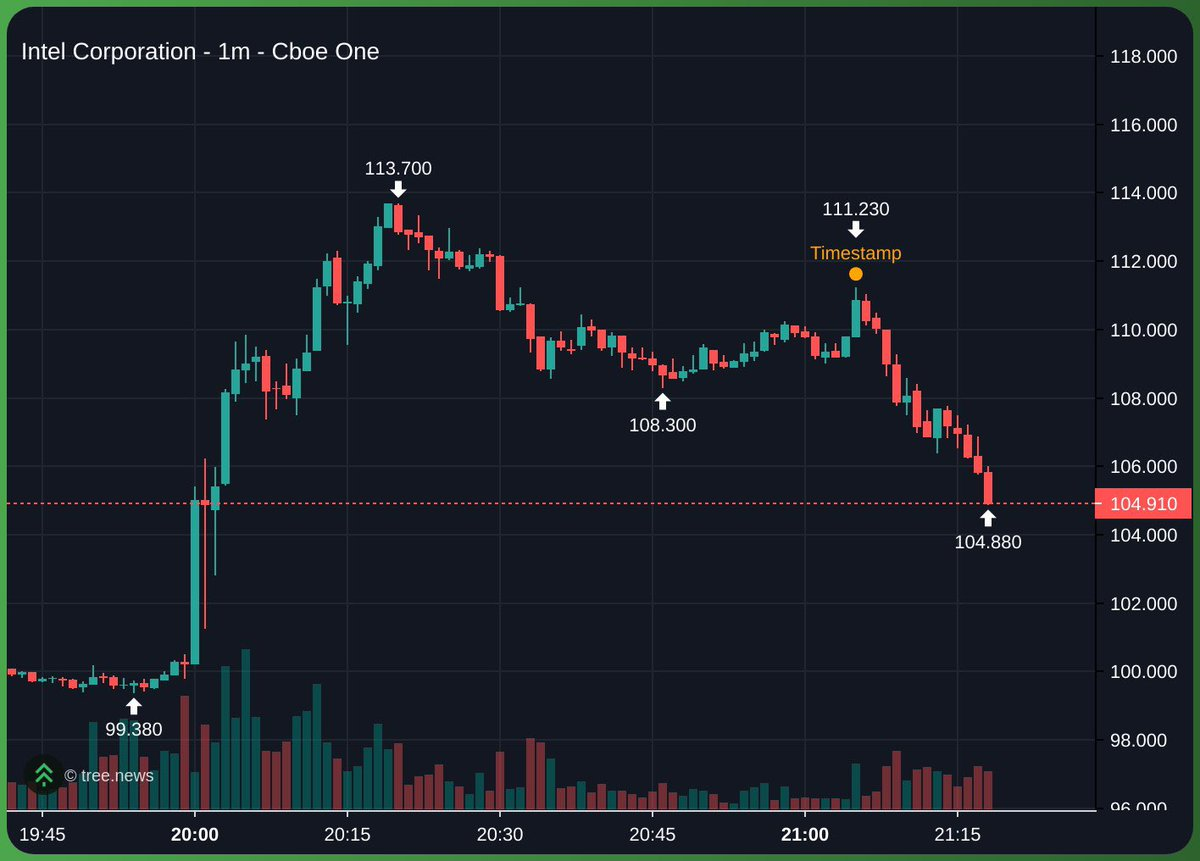
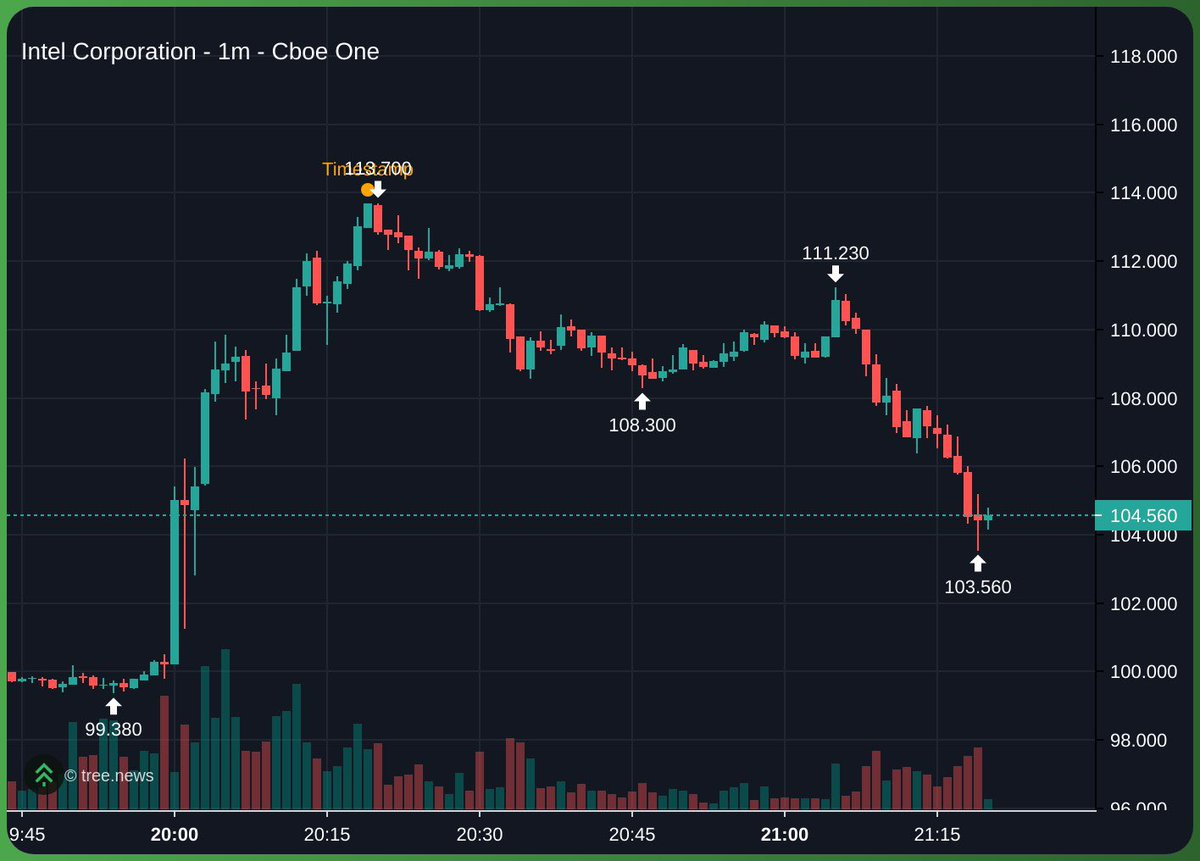
chore(x-trader-monitor): auto-commit 2026-07-23

Changed region(s): [[0.0, 0.1812, 1.0, 0.9965]]

diff --git a/memory/logs/2026-07-23.md b/memory/logs/2026-07-23.md
@@ -209,3 +209,11 @@
 - ticker(s): [INTC]
 - alerted: yes (informational alert sent)
 - notes: **INFORMATIONAL ALERT — INTC Technical Observation / Intraday Fade**. Tweet text: "Faded? https://t.co/4wuhzAOxs0" + 1 media attachment (INTC 1m chart). Step 4B classification (cryptic post with media) → Step 7 (image analysis required). Media analysis: INTC 1-minute chart on Cboe One (2026-07-23 19:45–21:15 UTC window). Chart shows: (1) Intraday pump from ~99 to high of 113.7 (marked at top), (2) Pullback to 111.23 (labeled "Timestamp"), (3) Further decline through 108.3 → 104.88 → current close 104.91 (shown in red box at bottom right). Volume bars at bottom show elevated activity during pump, declining during sell-off. Interpretation: Trader is asking "Faded?" — observing that INTC's intraday rally from ~99 to 113.7 has lost momentum and reversed sharply downward. Chart shows classic intraday pump-and-dump pattern with current price (104.91) significantly below both the pump high (113.7) and the pullback level (111.23). Execution language: ABSENT — post is a QUESTION ("Faded?"), not a statement of personal action ("I just shorted", "I closed", "I entered"). Step 4C check: NOT a personal trade action — trader is observing/questioning market price action, not describing own execution. Classification: Step 6 (Informational — technical observation/market analysis, no action required). Sentiment: NEUTRAL-TO-BEARISH (questioning whether rally momentum is gone, implying skepticism on upside durability). Context: Wild_Randomness documented profile (traders.md): multi-timeframe technical trader, posts cryptic chart-and-one-liner style, ~15+ ambiguous posts requiring calibration (high noise-to-signal). Current post: fits established pattern (technical question + image, no explicit personal action). Ticker context: INTC not on Kyle's explicit watch list but tracked by Wild_Randomness and Crypto_Chase (documented ticker-focus.md); near-term bearish conviction higher than long thesis per supporting-channel context (Crypto_Chase "lowest confidence out of MU/SNDK/INTC" Jul 17 14:06Z). Alert decision: Sends as Step 6 format (informational alert, no action required). Rationale: Technical observation on INTC intraday structure provides market context for Kyle's broader equities/tech watchlist (given recent semis weakness alerts: MU/SNDK/Memory ETF); chart pattern (classic intraday fade) confirms bearish intraday structure for the name. Cross-platform dedup: Wild_Randomness X-only (no Discord). No concurrent posts from other dual-platform traders (KillaXBT, Crypto_Chase, HeartCanHodl) on INTC within ±30min window. X post is FIRST SIGHTING of this INTC fade observation. Memory updates: (1) Added tweet_id 2080402533701636132 to memory/x-trader-seen.txt to prevent reprocessing on Worker retry. (2) Updated traders.md Wild_Randomness section: Last seen 2026-07-23 21:19:50 UTC, added new Events rolling entry "Jul 23 21:19Z — informational: INTC technical observation, 1m chart shows intraday rally faded (~99→113.7→104.91); questioning momentum reversal; no personal execution [2080402533701636132]". Alerted: YES (informational alert sent via ./notify).
+
+## x-trader-monitor (real-time event — 21:22:20 UTC — CALIBRATION ALERT)
+- trader: @Wild_Randomness
+- tweet_id: 2080403162754904368
+- classification: ambiguous
+- ticker(s): [INTC]
+- alerted: yes (calibration alert sent)
+- notes: **CALIBRATION ALERT — Cryptic INTC Technical Temptation (directional intent unclear)**. Tweet text: "Ok tempting fate https://t.co/SkZ9jkHVIA" + 1 media attachment (INTC 1m chart on Cboe One). Step 4B classification (cryptic post with media) → Step 7 (image analysis required). Media analysis: INTC 1-minute chart (19:45–21:15 UTC window) showing: (1) Peak labeled "Tin143.700" at ~113.7 level, (2) Support levels marked: 111.230, 108.300, 103.560, (3) Cyan dotted support line at 104.000, (4) Current price: 104.560 (shown in green right-side indicator). Heavy red candle action in recent bars (bearish). Chart quality: readable, clear marked support/resistance zones, multi-leg down structure visible. Execution language: ABSENT on personal action — phrase "tempting fate" is a CONDITIONAL/TEMPTATION statement, not a confirmed execution ("I bought", "I'm entering", "I just shorted"). Step 4C check: NOT a personal trade action — "tempting fate" implies urge/attraction to a trade setup, but not actual execution confirmation. Directional ambiguity: chart shows clear bearish technical breakdown (peaked 113.7 → testing support 104.0, multiple support levels marked for escalating weakness), BUT trader's INTENT is unclear: (a) "tempting fate" could mean TEMPTED TO SHORT the breakdown/weakness (bearish conviction), (b) OR could mean TEMPTED TO LONG the support test/reversal (bullish reversal opportunity), (c) OR could be a broader market observation on risk. Without explicit execution language ("I just shorted at X", "I'm buying support at Y") or directional signal ("shorts don't survive this", "bullish divergence"), the sentiment cannot be disambiguated. Trader pattern context: Wild_Randomness documented (traders.md): ~15+ PENDING calibrations already, known for cryptic chart posts without explicit execution language. Current post follows established pattern (technical setup + vague temptation phrase, no personal action stated). **Classification blocked at Step 4B**: Despite readable chart, trader's INTENT (bullish/bearish/neutral setup observation) is ambiguous per HR-2 protocol. **CALIBRATION ALERT SENT**: Format per HR-2 — included: (a) chart context (INTC 1m, clear technical levels shown), (b) exact cryptic quote "Ok tempting fate", (c) explicit note that chart supports both bullish and bearish interpretations depending on trader's conviction, (d) request for Kyle's interpretation of Wild_Randomness's read on the setup. Message sent: "🔍 *Calibration — @Wild_Randomness* / Event: INTC 1-minute chart posted with cryptic setup language / Chart shows: peaked 113.7, testing support at 104.0 with multiple support levels (111.2, 108.3, 103.5). Current 104.56. / @Wild_Randomness: \"Ok tempting fate\" / Chart could support either bullish (reversal/support bounce) or bearish (breakdown/weakness continuation) interpretation. Unable to classify without Kyle's read on Wild_Randomness's intent. / [View post](url)". Cross-platform dedup: Wild_Randomness X-only (no Discord). Prior event (21:19:50Z) was also INTC from same trader ("Faded?" chart question), confirming INTC focus this session but different chart/context. No concurrent posts from other dual-platform traders (KillaXBT, Crypto_Chase, HeartCanHodl) on INTC within ±30min window (last prior INTC mention: Jul 23 19:36Z Wild_Randomness Memory ETF observation on INTC earnings context). X post 21:22:20 UTC is SECOND INTC POST FROM TRADER within 3 minutes (21:19Z "Faded?" + 21:22Z "tempting fate"), suggesting sustained intraday INTC technical engagement. Memory updates: (1) Added tweet_id 2080403162754904368 to memory/x-trader-seen.txt to prevent reprocessing on Worker retry. (2) Updated traders.md Wild_Randomness section: Last seen 2026-07-23 21:22:20 UTC, added new Events rolling entry "Jul 23 21:22Z — ambiguous: INTC \"Ok tempting fate\" + 1m chart showing support breakdown; directional intent unclear (bullish reversal vs bearish weakness?) — awaiting calibration [2080403162754904368]". (3) Noted in same entry that this is SECOND INTC technical engagement in 3-minute window (sequential pattern suggests high focus on INTC intraday structure; may indicate intended trade setup forming). Alerted: YES (calibration alert sent via ./notify).

diff --git a/memory/topics/traders.md b/memory/topics/traders.md
@@ -409,8 +409,9 @@ BOOTSTRAP_COMPLETE: 2026-07-14
   - Jul 23 19:23Z — skip: BTC "Third Drive?" + charts; no action/conviction; matches noise rule [2080373129613091306]
   - Jul 23 18:39Z — ambiguous: poll-result sentiment reference "So a third of you would rather lose 50% than make 0%? [meme image]"; cryptic rhetorical question on risk preference behavior; no explicit market signal or personal trade action; awaiting calibration [2080362068415598794]
   - Jul 23 19:20Z — informational: SPX/SPY fractal hypothesis — July 2024 pattern repeating in July 2026; questions @Parida on "vixpiry fractal" + FOMC bounce scenario (bullish technical pattern observation); charts show identical 3-move sequence in both periods [2080372409245569301]
-- Last seen: 2026-07-23 21:19:50 UTC
+- Last seen: 2026-07-23 21:22:20 UTC
 - **Events (rolling):**
+  - Jul 23 21:22Z — ambiguous: INTC "Ok tempting fate" + 1m chart showing support breakdown; directional intent unclear (bullish reversal vs bearish weakness?) — awaiting calibration [2080403162754904368]
   - Jul 23 21:19Z — informational: INTC technical observation, 1m chart shows intraday rally faded (~99→113.7→104.91); questioning momentum reversal; no personal execution [2080402533701636132]
 
 ## t_in_crypto

diff --git a/.outputs/x-trader-monitor.md b/.outputs/x-trader-monitor.md
@@ -1,5 +1,11 @@
-🐦 *[X] @Wild_Randomness*
+🔍 *Calibration — @Wild_Randomness*
 
-INTC intraday fade observed — 1m chart shows rally from ~99 to 113.7 reversed sharply to 104.91
+Event: INTC 1-minute chart + cryptic setup language
 
-[View tweet](https://x.com/Wild_Randomness/status/2080402533701636132)
+Chart shows: peaked 113.7 (earlier), testing support at 104.0 with multiple support levels marked (111.2, 108.3, 103.5). Current: 104.56.
+
+@Wild_Randomness: "Ok tempting fate"
+
+Chart supports either bullish (reversal/support bounce) OR bearish (breakdown/weakness continuation) interpretation. Unable to classify without your read: is this trader tempted to SHORT the breakdown, or LONG the support test?
+
+[View post](https://x.com/Wild_Randomness/status/2080403162754904368)
